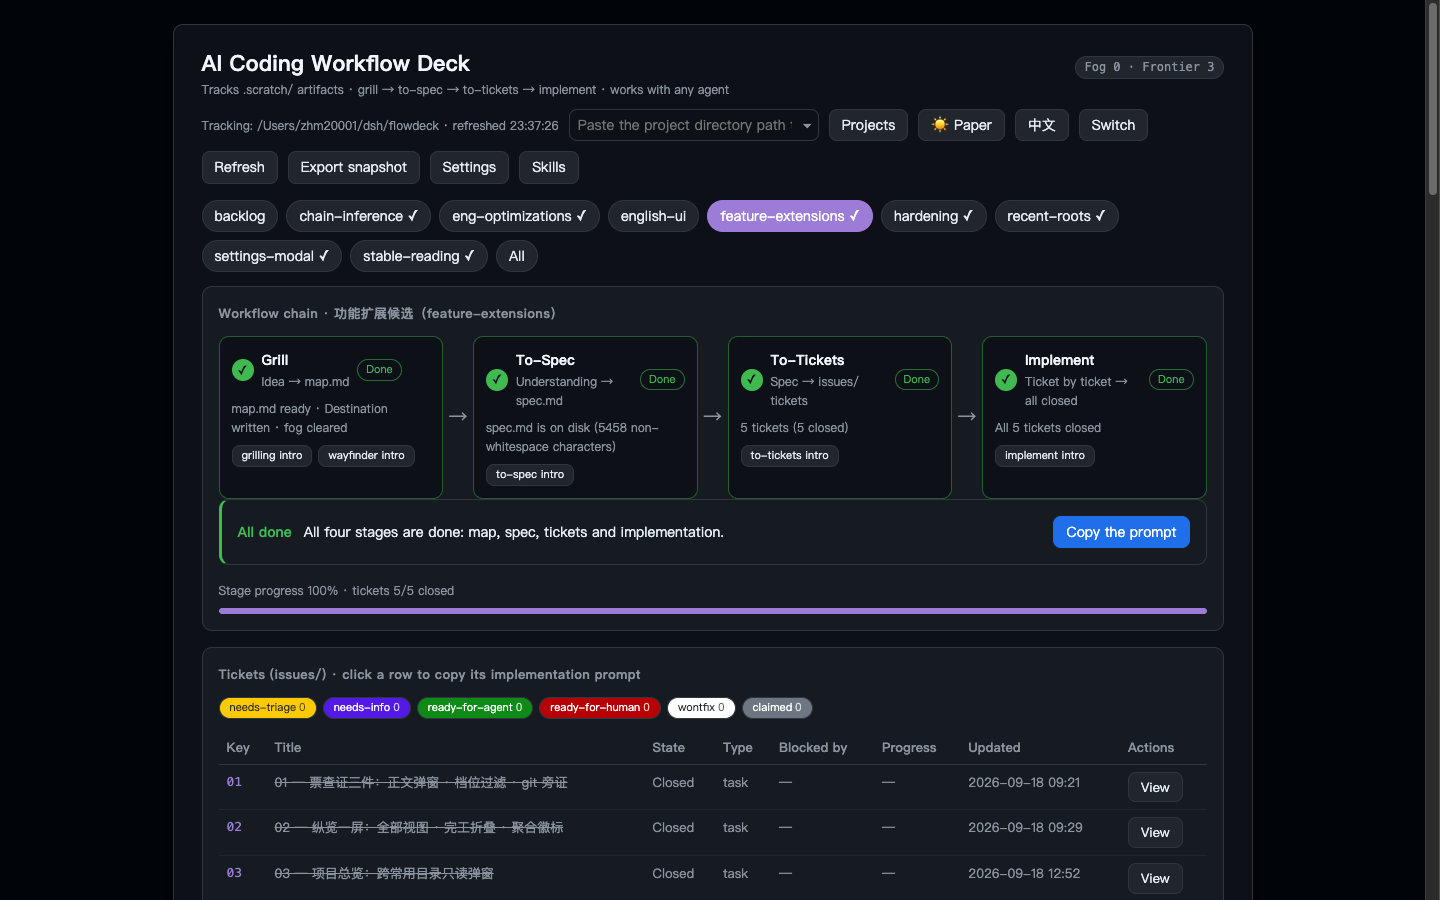
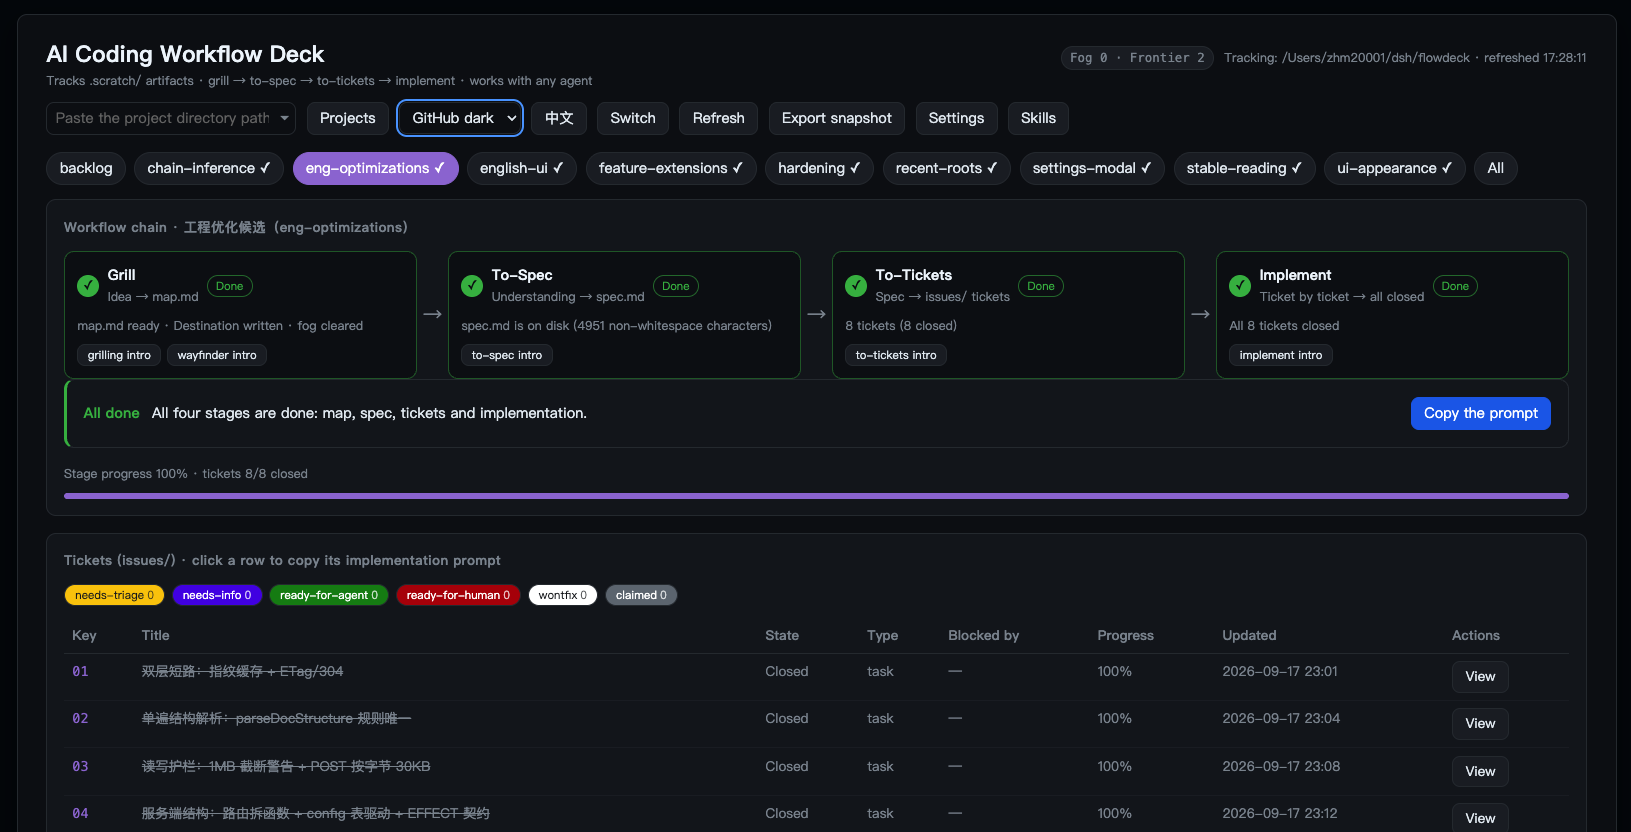
ui-appearance 截图收尾（票 04 末项，使用者亲自重拍）：三套主题并列 + 冷白默认 + 流式缩放改了整体视觉，两侧旧图与图注「纸感亮色 / light, paper theme」自此名实不副。新图各三张落 docs/screenshots{,-en}/（main-view-white-01 顶栏与流程链四格、white-02 票表尾部与地图/规格双卡、dark 同一块板的 GitHub 暗态，1631×832），双语 README 的「界面一览 / Screenshots」段按新图逐张重写图注、从两列并排表改成单图独占一行（新图 2:1 宽幅，塞进表格列会小到读不出票表文字）。

diff --git a/README.zh-CN.md b/README.zh-CN.md
@@ -28,13 +28,17 @@
 
 下面是中文态的三张实拍（英文态的三张在 [英文 README](README.md#screenshots)，图存 `docs/screenshots-en/`）。
 
-主视图（纸感亮色）——流程链四格、下一步指引卡、票表：
+主视图（默认冷白主题）——顶栏、流程链四格、下一步指引卡与票表：
 
-![流程板主视图 · 纸感亮色](docs/screenshots/main-view-light.png)
+![流程板主视图 · 冷白主题](docs/screenshots/main-view-white-01.png)
 
-| 暗色主题 | 全部 effort 纵览 |
-|---|---|
-| ![暗色主题](docs/screenshots/main-view-dark.png) | ![全部纵览](docs/screenshots/all-efforts.png) |
+票表尾部，与并排的地图（map.md）/ 规格（spec.md）卡片：
+
+![地图与规格卡片](docs/screenshots/main-view-white-02.png)
+
+同一块板换到 GitHub 暗主题——顶栏下拉一换即整体换肤，布局不动：
+
+![暗色主题](docs/screenshots/main-view-dark.png)
 
 ## 快速开始
 
@@ -167,8 +171,8 @@ verify 覆盖：effort 识别、四场景链状态（含后向推定与「推定
 | `index.html` | 浏览器界面（单文件、无构建；轮询间隔读 config.json，数据签名没变就不重画主区、真重画时恢复滚动位置，长文档读得下去；规格卡片 Markdown 轻渲染，「展开阅读」进全宽弹窗，票表「查看」复用同一弹窗懒加载票原文、六档 triage chip 过滤、git 旁证行；切换条尾「全部」视图一屏纵览（进行中按最近活跃在前、完工默认折叠，偏好记本浏览器）、顶栏「迷雾总数 + 前沿票数」徽标点开前沿票清单直达所属 effort；「项目」按钮开跨常用目录只读总览、点行即切；「导出快照」把最近一拍 /api/state 的原始响应体原样落下载文件（`flowdeck-snapshot-<项目名>-<本地时间>.json`，不重新序列化）；桌面通知（默认关，设置里开启即申请权限、被拒回落提示；回前台积压聚合一条、通知点击切到涉及 effort，偏好只存本浏览器）；空态页「工作约定」旁有「建骨架指令」一键复制；链格旁技能入口打开技能包弹窗定位该篇；可在线换追踪目录，地址栏带常用目录下拉；右上角「设置」弹窗集中改 pollMs/host/port/令牌，其「外观」区另调界面缩放档（小/中/大/特大，即时生效、只存本浏览器），顶栏三选下拉在冷白 / 暖纸 / GitHub 暗三套平级主题间切换（默认冷白、写死在 `<html>` 标记上，选择记忆在本浏览器，旧「亮色」偏好自动迁到冷白），「技能包」按钮弹出静态全景介绍；顶栏「中/英」按钮整页换界面语言（文案、指引词、通知、报错措辞与技能介绍一起翻，选择记在本浏览器）；业务样式只消费一层 `--fd-*` 别名） |
 | `docs/skill-intros/` | Matt 技能包全景介绍：每技能一篇中文提炼（frontmatter 供 `/api/skills` 出清单），README 是总览；网页弹窗的静态素材，也是清单骨架（有哪些篇、分类、顺序）的唯一真相 |
 | `docs/skill-intros-en/` | 上述介绍的英文镜像：篇名一一对应，只译标题/简介/正文，`/api/skills*` 带 `?lang=en` 时读它 |
-| `docs/screenshots/` | 本 README 用的中文态演示截图（亮色 / 暗色 / 全部纵览） |
-| `docs/screenshots-en/` | 英文 README 用的英文态演示截图（同三张视角、同 1440×900） |
+| `docs/screenshots/` | 本 README 用的中文态演示截图（冷白主视图两张 + 暗色一张，1631×832） |
+| `docs/screenshots-en/` | 英文 README 用的英文态演示截图（同三张视角、同 1631×832） |
 | `verify-standalone.mjs` | 独立验证脚本 |
 
 ## 现在没做的（有意留白）

diff --git a/README.md b/README.md
@@ -27,13 +27,17 @@ The board **scales with the viewport**: on a wide screen the type size, the spac
 
 All three are the English UI, running against this repository's own `.scratch/`.
 
-Main view (light, paper theme) — the four-stage chain, the next-step prompt card, and the ticket table:
+Main view, cold-white default theme — the top bar, the four-stage chain, the next-step prompt card and the ticket table:
 
-![flowdeck main view, light paper theme, English UI](docs/screenshots-en/main-view-light.png)
+![flowdeck main view, cold white theme, English UI](docs/screenshots-en/main-view-white-01.png)
 
-| Dark theme | All-efforts overview |
-|---|---|
-| ![flowdeck dark theme, English UI](docs/screenshots-en/main-view-dark.png) | ![all-efforts overview, English UI](docs/screenshots-en/all-efforts.png) |
+The ticket table's tail, with the map and spec cards side by side:
+
+![flowdeck map and spec cards, English UI](docs/screenshots-en/main-view-white-02.png)
+
+The same board in the GitHub-dark theme — one top-bar dropdown switch, layout untouched:
+
+![flowdeck dark theme, English UI](docs/screenshots-en/main-view-dark.png)
 
 Ticket titles inside the shots are still Chinese: those are the tracked artifacts' own text, which the board displays verbatim in any language.
 
@@ -169,8 +173,8 @@ Push-verified: `.github/workflows/ci.yml` runs `npm run lint` + `npm run verify`
 | `index.html` | the browser UI (single file, no build; polls at the config interval, skips repainting when the data signature is unchanged and restores scroll when it does; light spec rendering with an expand-to-modal reader reused for ticket bodies; six-way triage chip filter and the git sidecar row; an "all" overview across efforts (in-progress by recency, done collapsed by default, preferences per browser); fog+frontier badges with a jump panel; a cross-root projects overview; snapshot export; opt-in desktop notifications; empty-state one-click starters; per-stage skill shortcuts; root switching with the recent-roots dropdown; a settings modal for pollMs/host/port/token (plus an Appearance section holding the UI-scale step — small/medium/large/extra-large, applied instantly, browser-local); a top-bar dropdown switching between the three peer themes — cold white (the default, hard-coded on the `<html>` markup), warm paper and GitHub dark — remembered per browser, with the legacy "light" preference migrated to cold; a top-bar 中/英 button switches the whole shell — copy, guide words, notifications, error wording and the skills catalog — with the choice remembered per browser; business styles consume only one layer of `--fd-*` aliases) |
 | `docs/skill-intros/` | the skills catalog: one Chinese write-up per skill (frontmatter feeds `/api/skills`), README is the overview; static material for the UI modal, and the single source of the catalog's shape (which docs, category, order) |
 | `docs/skill-intros-en/` | English mirror of the catalog: same file names, only title/summary/body translated, served when `/api/skills*` gets `?lang=en` |
-| `docs/screenshots/` | Chinese-UI demo screenshots used by README.zh-CN.md (light / dark / all-efforts overview) |
-| `docs/screenshots-en/` | English-UI demo screenshots used by this README (same three views, same 1440×900) |
+| `docs/screenshots/` | Chinese-UI demo screenshots used by README.zh-CN.md (two cold-white main-view shots + one dark, 1631×832) |
+| `docs/screenshots-en/` | English-UI demo screenshots used by this README (same three views, same 1631×832) |
 | `verify-standalone.mjs` | the standalone verification script |
 
 ## Deliberately out of scope
